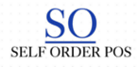
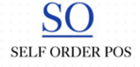
..

Changed region(s): [[0.2857, 0.0299, 0.7143, 0.6567]]

diff --git a/POS_system/src/main/java/app/LaunchFrame.java b/POS_system/src/main/java/app/LaunchFrame.java
@@ -3,6 +3,8 @@
  */
 package app;
 
+import pos.StartFrame;
+
 public class LaunchFrame extends javax.swing.JFrame {
 
   private String appName;
@@ -14,7 +16,6 @@ public class LaunchFrame extends javax.swing.JFrame {
     initComponents();
     app.Global.setAppIcon(this);
     getAppName();
-    lblAppName.setText(appName);
     setSystemTray();
   }
 
@@ -26,16 +27,16 @@ public class LaunchFrame extends javax.swing.JFrame {
   @SuppressWarnings("unchecked")
   // <editor-fold defaultstate="collapsed" desc="Generated Code">//GEN-BEGIN:initComponents
   private void initComponents() {
-    java.awt.GridBagConstraints gridBagConstraints;
 
     btgTheme = new javax.swing.ButtonGroup();
     pnlContainer = new javax.swing.JPanel();
     lblAppLogo = new javax.swing.JLabel();
-    lblAppName = new javax.swing.JLabel();
     pnlActions = new javax.swing.JPanel();
     btnLaunchKiosk = new javax.swing.JButton();
     btnLaunchAdmin = new javax.swing.JButton();
     jLabel1 = new javax.swing.JLabel();
+    jLabel2 = new javax.swing.JLabel();
+    jTextField1 = new javax.swing.JTextField();
     menuBar = new javax.swing.JMenuBar();
     mnuFile = new javax.swing.JMenu();
     mniExit = new javax.swing.JMenuItem();
@@ -49,26 +50,15 @@ public class LaunchFrame extends javax.swing.JFrame {
     setTitle("Launcher");
     setName(""); // NOI18N
     setPreferredSize(new java.awt.Dimension(720, 600));
-    getContentPane().setLayout(new java.awt.GridBagLayout());
+    getContentPane().setLayout(new org.netbeans.lib.awtextra.AbsoluteLayout());
 
     pnlContainer.setMaximumSize(new java.awt.Dimension(640, 480));
     pnlContainer.setMinimumSize(new java.awt.Dimension(640, 480));
     pnlContainer.setPreferredSize(new java.awt.Dimension(640, 480));
-    pnlContainer.setLayout(new java.awt.GridBagLayout());
+    pnlContainer.setLayout(new org.netbeans.lib.awtextra.AbsoluteLayout());
 
     lblAppLogo.setIcon(new javax.swing.ImageIcon(getClass().getResource("/app/8005091691_c52bb4ef-b5b1-4221-a5.png"))); // NOI18N
-    gridBagConstraints = new java.awt.GridBagConstraints();
-    gridBagConstraints.gridx = 0;
-    gridBagConstraints.gridy = 0;
-    pnlContainer.add(lblAppLogo, gridBagConstraints);
-
-    lblAppName.setFont(lblAppName.getFont().deriveFont(lblAppName.getFont().getSize()+13f));
-    gridBagConstraints = new java.awt.GridBagConstraints();
-    gridBagConstraints.gridx = 0;
-    gridBagConstraints.gridy = 1;
-    gridBagConstraints.anchor = java.awt.GridBagConstraints.NORTH;
-    gridBagConstraints.insets = new java.awt.Insets(20, 0, 50, 0);
-    pnlContainer.add(lblAppName, gridBagConstraints);
+    pnlContainer.add(lblAppLogo, new org.netbeans.lib.awtextra.AbsoluteConstraints(241, 90, -1, -1));
 
     pnlActions.setMaximumSize(null);
     pnlActions.setPreferredSize(new java.awt.Dimension(420, 180));
@@ -101,14 +91,17 @@ public class LaunchFrame extends javax.swing.JFrame {
     });
     pnlActions.add(btnLaunchAdmin);
 
-    gridBagConstraints = new java.awt.GridBagConstraints();
-    gridBagConstraints.gridx = 0;
-    gridBagConstraints.gridy = 2;
-    gridBagConstraints.anchor = java.awt.GridBagConstraints.SOUTH;
-    pnlContainer.add(pnlActions, gridBagConstraints);
-    pnlContainer.add(jLabel1, new java.awt.GridBagConstraints());
+    pnlContainer.add(pnlActions, new org.netbeans.lib.awtextra.AbsoluteConstraints(91, 210, -1, -1));
+    pnlContainer.add(jLabel1, new org.netbeans.lib.awtextra.AbsoluteConstraints(0, 0, -1, -1));
 
-    getContentPane().add(pnlContainer, new java.awt.GridBagConstraints());
+    jLabel2.setText("IP");
+    pnlContainer.add(jLabel2, new org.netbeans.lib.awtextra.AbsoluteConstraints(240, 420, 20, 20));
+
+    jTextField1.setText("196.168.0.010");
+    jTextField1.setBorder(javax.swing.BorderFactory.createMatteBorder(0, 0, 1, 0, new java.awt.Color(0, 0, 0)));
+    pnlContainer.add(jTextField1, new org.netbeans.lib.awtextra.AbsoluteConstraints(260, 420, 140, -1));
+
+    getContentPane().add(pnlContainer, new org.netbeans.lib.awtextra.AbsoluteConstraints(40, 48, -1, -1));
 
     mnuFile.setText("File");
 
@@ -182,14 +175,14 @@ public class LaunchFrame extends javax.swing.JFrame {
   }//GEN-LAST:event_cmuDarkItemStateChanged
 
   private void btnLaunchAdminActionPerformed(java.awt.event.ActionEvent evt) {//GEN-FIRST:event_btnLaunchAdminActionPerformed
-    new admin.LoginFrame().setVisible(true);
+    new admin.LoginFrame(jTextField1.getText()).setVisible(true);
 
     // Minimize the LaunchFrame frame
     // setState(javax.swing.JFrame.ICONIFIED);
   }//GEN-LAST:event_btnLaunchAdminActionPerformed
 
   private void btnLaunchKioskActionPerformed(java.awt.event.ActionEvent evt) {//GEN-FIRST:event_btnLaunchKioskActionPerformed
-    new pos.StartFrame().setVisible(true);
+    new StartFrame(jTextField1.getText()).setVisible(true);
 
     // Minimize the LaunchFrame frame
     // setState(javax.swing.JFrame.ICONIFIED);
@@ -274,8 +267,9 @@ public class LaunchFrame extends javax.swing.JFrame {
   private javax.swing.JCheckBoxMenuItem cmuDark;
   private javax.swing.JCheckBoxMenuItem cmuLight;
   private javax.swing.JLabel jLabel1;
+  private javax.swing.JLabel jLabel2;
+  private javax.swing.JTextField jTextField1;
   private javax.swing.JLabel lblAppLogo;
-  private javax.swing.JLabel lblAppName;
   private javax.swing.JMenuBar menuBar;
   private javax.swing.JMenuItem mniAbout;
   private javax.swing.JMenuItem mniExit;

diff --git a/POS_system/src/main/java/app/Global.java b/POS_system/src/main/java/app/Global.java
@@ -3,7 +3,7 @@ package app;
 public class Global {
 
   public static void setAppIcon(javax.swing.JFrame frame) {
-    javax.swing.ImageIcon appIcon = new javax.swing.ImageIcon(frame.getClass().getResource("/app/app-logo-1x.png"));
+    javax.swing.ImageIcon appIcon = new javax.swing.ImageIcon(frame.getClass().getResource("/app/so.png"));
     frame.setIconImage(appIcon.getImage());
   }
 
@@ -28,7 +28,7 @@ public class Global {
   }
 
   public static javax.swing.ImageIcon getImagePreview(String url, int w, int h, Object context) {
-    javax.swing.ImageIcon image = new javax.swing.ImageIcon(context.getClass().getResource("/icons/soup-bowl.png"));
+    javax.swing.ImageIcon image = new javax.swing.ImageIcon(context.getClass().getResource("/app/so.png"));
     if (url != null && !url.isEmpty()) {
       try {
         java.net.URL imageUrl = new java.net.URL(url + "?fit=around%7C" + w + "%3A" + h + "&crop=" + w + "%3A" + h + "%3B%2A%2C%2A");

diff --git a/POS_system/src/main/java/admin/LoginFrame.java b/POS_system/src/main/java/admin/LoginFrame.java
@@ -19,6 +19,9 @@ public class LoginFrame extends javax.swing.JFrame {
   }
 
   public LoginFrame(String ip) {
+    initComponents();
+    app.Global.setAppIcon(this);
+    authService = new services.clientHandler(this.ip);
     this.ip = ip;
   }
 
@@ -118,7 +121,7 @@ public class LoginFrame extends javax.swing.JFrame {
   }//GEN-LAST:event_btnLoginActionPerformed
 
     private void txtUsernameActionPerformed(java.awt.event.ActionEvent evt) {//GEN-FIRST:event_txtUsernameActionPerformed
-        // TODO add your handling code here:
+      // TODO add your handling code here:
     }//GEN-LAST:event_txtUsernameActionPerformed
 
   private boolean getValidFields() {

diff --git a/POS_system/src/main/java/pos/StartFrame.java b/POS_system/src/main/java/pos/StartFrame.java
@@ -5,10 +5,18 @@ import java.util.logging.Logger;
 
 public class StartFrame extends javax.swing.JFrame {
 
+  private String ip = "127.0.0.1";
+
   /**
    * Creates new form StartFrame
    */
   public StartFrame() {
+    initComponents();
+    app.Global.setAppIcon(this);
+  }
+
+  public StartFrame(String ip) {
+    this.ip = ip;
     initComponents();
     app.Global.setAppIcon(this);
   }
